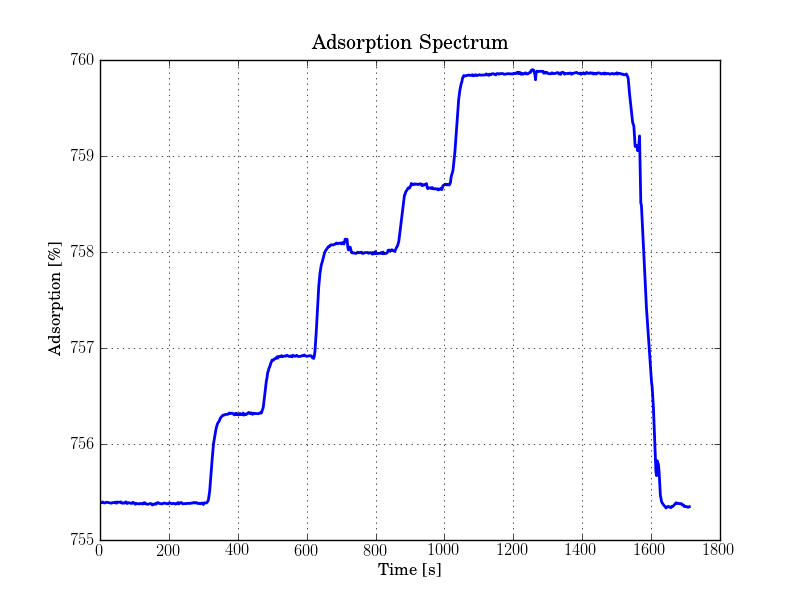
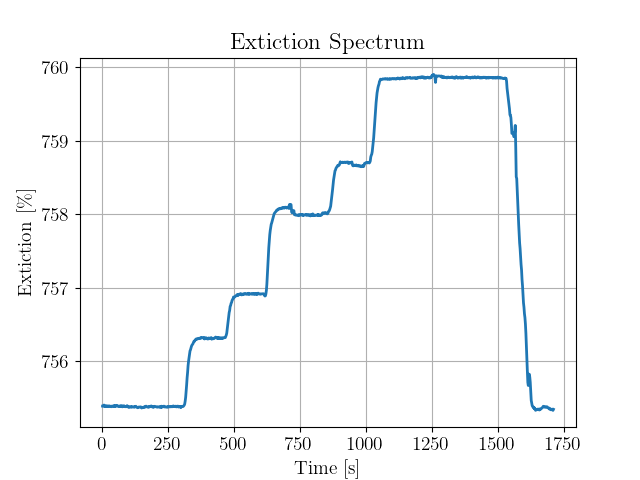
Final version used for hand-in

diff --git a/LSPR_Lab/main.py b/LSPR_Lab/main.py
@@ -19,7 +19,7 @@ def find_fwhm(xdata, ydata):
     max_fw = (xdata[max_fw_idx], ydata[max_fw_idx])
     
     return min_fw, max_fw
-    
+
 def extract_from_xml(filename):
     X_set = []
     Y_set = []
@@ -70,30 +70,41 @@ trans_y = 100-trans_data[1::2,:]
 
 # Find peaks and FWHM
 peak_idx = [np.argmax(data) for data in trans_y]
+norm_fwhm = []
 fwhm_list = []
 peak_list = []
+amp_list = []
 
 for x, y, i in zip(trans_x, trans_y, peak_idx):
-    idx = find_fwhm(x, y)
-    fwhm = x[idx[1][0]] - x[idx[0][0]]
+    width = find_fwhm(x, y)
+    fwhm = width[0][0] - width[1][0]
     fwhm_list.append(fwhm)
-    peak_list.append(y[i])
+    norm_fwhm.append(fwhm/y[i])
+    peak_list.append(x[i])
+    amp_list.append(y[i])
 
+print('Identified peaks:')
 pprint(peak_list)
+print('Identified peak amplitudes:')
+pprint(peak_list)
+print('Identified FWHM:')
 pprint(fwhm_list)
+print('FWHM/A:')
+pprint(norm_fwhm)
 
 # Plot stuff
 plt.rc('text', usetex=True)
 plt.rc('font', family='serif')
+plt.rc('font', size=14)
 
 plt.figure()
-plt.title('Adsorption Spectrum')
+plt.title('Extinction Spectrum')
 plt.xlabel('Wavelength [nm]')
-plt.ylabel('Adsorption [\%]')
+plt.ylabel('Extiction [\%]')
 ax = plt.axes()
-n = 1
+n = ord('A')
 for x, y, i in zip(trans_x, trans_y, peak_idx):
-    plt.plot(x,y, label='Measurement {0}'.format(n), linewidth=2)
+    plt.plot(x,y, label='Measurement {0}'.format(chr(n)), linewidth=2)
     fw = find_fwhm(x, y)
     ax.annotate('', xy=fw[0], xytext=fw[1], arrowprops=dict(arrowstyle='<->'))
     #plt.plot(fw[0], fw[1], 'b-o')
@@ -110,18 +121,115 @@ plt.savefig('Images/measurement_data.png')
 
 
 # Data processing for the liquid interface measurement
+conc =  [0,
+         10,
+         20,
+         30,
+         40,
+         50,
+         60,
+         70,
+         80,
+         90,
+         100]
+
+refr_idx = [1.33300,
+            1.34242,
+            1.35238,
+            1.36253,
+            1.37275,
+            1.38313,
+            1.39336,
+            1.40340,
+            1.41315,
+            1.42262,
+            1.43188]
+
+abs_dens = [0.99707,
+            1.0096,
+            1.0229,
+            1.0364,
+            1.0495,
+            1.0620,
+            1.0740,
+            1.0850,
+            1.0945,
+            1.1029,
+            1.1099]
+
+slope = (refr_idx[-1]-refr_idx[0])/(conc[-1]-conc[0])
+r_idx = lambda c: slope*c + refr_idx[0]
+
+levels = [755.365,
+          756.302,
+          756.914,
+          757.989,
+          758.662,
+          759.859]
+
+conc_data = [ 0,
+             10,
+             17,
+             29,
+             36,
+             47]
+
+ridx_data = [r_idx(c) for c in conc_data]
+
+l_diff = [x2 - x1 for x1, x2 in zip(levels[:-1], levels[1:])]
+n_diff = [x2 - x1 for x1, x2 in zip(ridx_data[:-1], ridx_data[1:])]
+ln_ratio = [l/n for l, n in zip(l_diff, n_diff)]
+
+print('Refractive index:')
+pprint(ridx_data)
+print('Delta lamda [nm]:')
+pprint(l_diff)
+print('Delta n:')
+pprint(n_diff)
+print('dl/dn [nm]:')
+pprint(ln_ratio)
+print('Mean resolution [nm]:')
+pprint(np.mean(ln_ratio))
+
+plt.figure()
+plt.title('$n$ vs Concentration')
+plt.xlabel('Concentration [wt\%]')
+plt.ylabel('$n$')
+plt.grid(True)
+plt.xlim(0, 100)
+plt.ylim(refr_idx[0], refr_idx[-1])
+ax = plt.axes()
+plt.plot(conc, refr_idx, linewidth=2, label='Interpolated data')
+plt.plot(conc_data, ridx_data, 'r^', markersize=10, label='Experimental data')
+plt.legend(loc='upper left')
+for x, y in zip(conc_data, ridx_data):
+    x0 = 0
+    y0 = refr_idx[0]
+    ax.annotate(s='', xy=(x,y0), xytext=(x,y), 
+                arrowprops=dict(arrowstyle='->'))
+    ax.annotate(s='', xy=(x0,y), xytext=(x,y), 
+                arrowprops=dict(arrowstyle='->'))
+
+plt.savefig('Images/refractive_vs_conc.png')
+
+plt.figure()
+plt.title('Sensitivity')
+plt.xlabel('Step')
+plt.ylabel(r'$\frac{\Delta n}{\Delta \lambda }$')
+plt.grid(True)
+plt.plot(range(1,len(ln_ratio)+1), ln_ratio, '-o', markersize=10)
+plt.plot([1,5], [np.mean(ln_ratio), np.mean(ln_ratio)])
+
+plt.savefig('Images/sensitivity.png')
 
 philip_data = np.genfromtxt('data/peak_pos.txt')
 philip_x = philip_data[:,0]
 philip_y = philip_data[:,1]
 
-pprint(philip_x)
-pprint(philip_y)
-
 plt.figure()
-plt.title('Adsorption Spectrum')
+plt.title('Extiction Spectrum')
 plt.xlabel('Time [s]')
-plt.ylabel('Adsorption [\%]')
+plt.ylabel('Extiction [\%]')
 plt.grid(True)
 plt.plot(philip_x,philip_y, linewidth=2)
 
@@ -129,11 +237,12 @@ plt.savefig('Images/liquid_interface.png')
 
 X_set, Y_set = extract_from_xml('data/skalman_lspr.inr')
 
-plt.figure()
-plt.title('Adsorption')
-plt.xlabel('Wavelength [nm]')
-plt.ylabel('Transmission [\%]')
-for x, y in zip(X_set, Y_set):
-    plt.plot(x,y)
+# plt.figure()
+# plt.title('Extiction')
+# plt.xlabel('Wavelength [nm]')
+# plt.ylabel('Transmission [\%]')
+# plt.grid(True)
+# for x, y in zip(X_set[0], Y_set[0]):
+#     plt.plot(x,y,'b-.')
 
 plt.show()
